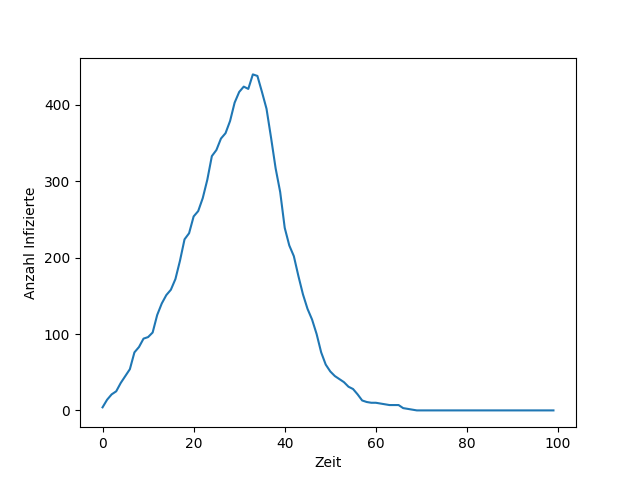
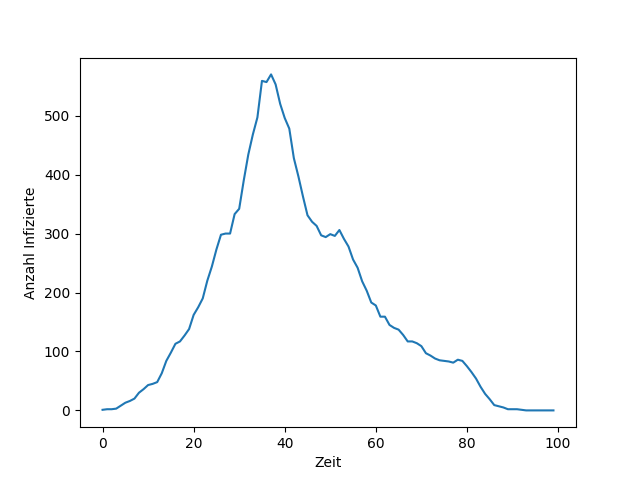
dev: update python-4 c

diff --git a/python-4/src/c.py b/python-4/src/c.py
@@ -1,11 +1,21 @@
-import time
+# imports
+
 import os
+import time
 import random
 import matplotlib.pyplot as plt
 
+# settings
 
-def setup():
-  A = [[0 for x in range(42)] for y in range(42)]
+tend = 100
+delay = 1
+p = 0.3
+size = 52
+
+# functions
+
+def setup(size):
+  A = [[0 for x in range(size)] for y in range(size)]
   return A
 
 def output(grid, zeiteinheit):
@@ -37,18 +47,19 @@ def count(grid):
   return result
 
 def update(B, p):
+  C = B
   for i in range(1, len(B)-1):
     for j in range(1, len(B)-1):
       rand = random.random()
       if B[i][j] == 0:
         if B[i+1][j] > 0  and B[i+1][j] < 8 or B[i][j-1] > 0 and B[i][j-1] < 8 or B[i][j+1] > 0 and B[i][j+1] < 8 or B[i-1][j] > 0 and B[i-1][j] < 8:
           if rand <= p:
-            B[i][j] = 1
+            C[i][j] = 1
           else:
-            B[i][j] = 0
+            C[i][j] = 0
       elif B[i][j] > 0 and B[i][j] < 8:
-        B[i][j] += 1
-  return B
+        C[i][j] += 1
+  return C
 
 def visual(infiziert):
   plt.plot(infiziert)
@@ -56,17 +67,15 @@ def visual(infiziert):
   plt.xlabel('Zeit')
   plt.savefig("/Users/nicolas/Desktop/Git/Lara/eth-hst-2024-informatik/python-4/src/assets/visual.png")
 
-#Hauptprogramm
-tend = 100
-grid = setup()
-delay = 1
-p = 0.3
+# main program
+
+grid = setup(size)
+grid[random.randint(1, len(grid)-1)][random.randint(1, len(grid)-1)] = 1
+
 n_gesund = [0 for x in range(tend)]
 n_infiziert =[0 for x in range(tend)]
-n_genesen = [0 for x in range(tend)]
+n_genesen = [0 for x in range(tend)] 
 
-#grid[random.randint(1, len(grid)-1)][random.randint(1, len(grid)-1)] = 1
-grid[5][5] = 1
 output(grid, 0)
 
 for i in range(0, tend):
